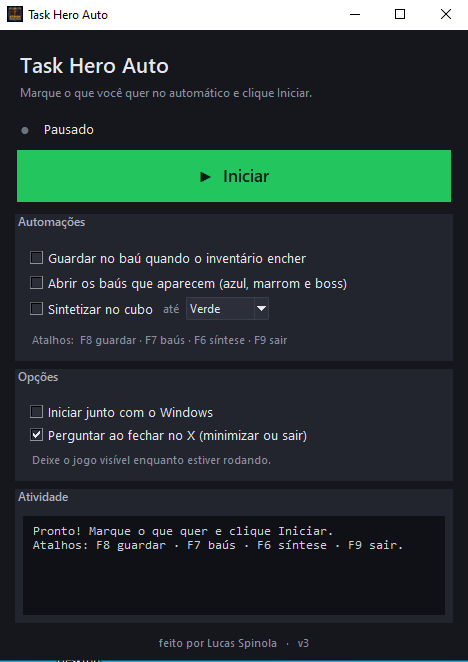
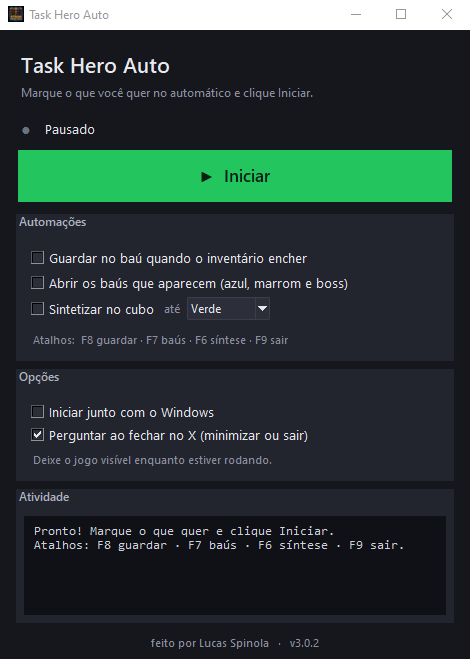
README: abas 1 a 5 e requisito de escala de janela 1x

diff --git a/README.md b/README.md
@@ -29,13 +29,13 @@ você faz outra coisa.
 ## O que faz
 
 - **Guardar no baú,** quando aparece o aviso de inventário cheio, ele abre o baú e guarda tudo, em todas
-  as abas que você tiver como 1, 2 e também a 3, que ele percebe sozinho se já possui.
+  as abas que você tiver, da 1 até a 5, que ele percebe sozinho quais você já tem.
 - **Abrir os baús,** aquelas caixinhas que aparecem no combate, a azul, a marrom e a do boss, a vermelha,
   ele clica assim que surgem.
 - **Sintetizar no cubo,** de tempos em tempos ele abre o cubo, preenche e cria sozinho, e você escolhe
   até qual raridade ele vai, de cinza até roxo, o intervalo vem em 10 minutos e dá pra mudar.
-- **Funciona sem ajuste,** ele se vira com a janela do jogo em qualquer lugar e tamanho, e em qualquer
-  monitor.
+- **Funciona sem ajuste,** com o jogo na escala 1x ele se vira com a janela em qualquer lugar da tela e
+  em qualquer monitor.
 - **Você no controle,** marca as caixinhas e clica em Iniciar, e dá pra pausar quando quiser, com o
   status e um histórico do que ele fez.
 - **Fica no seu canto,** quando você fecha no X ele pergunta se quer minimizar pra bandeja ou sair, e
@@ -49,6 +49,7 @@ Bem pouca coisa, só isto:
 
 - Um computador com **Windows 10 ou 11**.
 - O jogo **Task Hero** aberto e **à mostra** na tela, sem minimizar e sem cobrir com outra janela.
+- O jogo na **escala de janela 1x** (o tamanho normal, sem zoom), que é como ele reconhece os botões.
 - O arquivo **`TaskHeroAutoStash.exe`**, que você baixa pronto, sem instalar nada e sem precisar de
   Python.
 
@@ -83,7 +84,8 @@ e depois em **Executar assim mesmo**.
 
 ## Se não funcionar
 
-- **Diz que está procurando o jogo,** deixe a tela de combate visível e não coberta por outra janela.
+- **Diz que está procurando o jogo,** deixe a tela de combate visível e não coberta por outra janela, e
+  confira que o jogo está na escala de janela 1x, sem zoom.
 - **Não guarda quando enche,** abra com `TaskHeroAutoStash.exe --debug`, que ele mostra um número de
   confiança, e ajuste o `trigger_threshold` no arquivo `config.json` que fica ao lado do programa.
 - **Clicou no lugar errado,** rode `TaskHeroAutoStash.exe --once`, que ele faz um ciclo só e salva